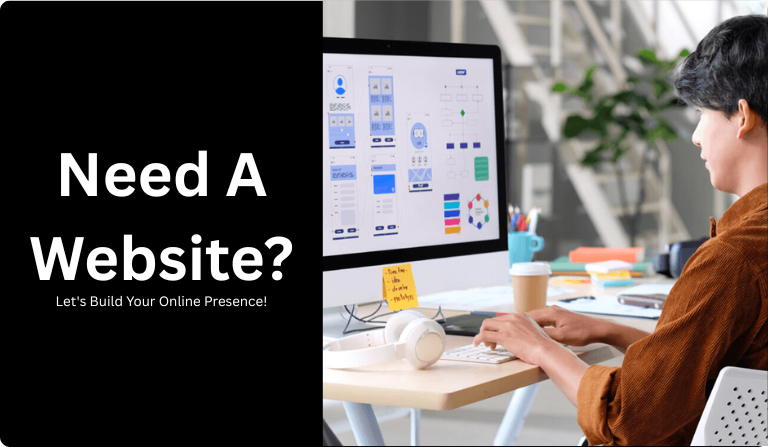
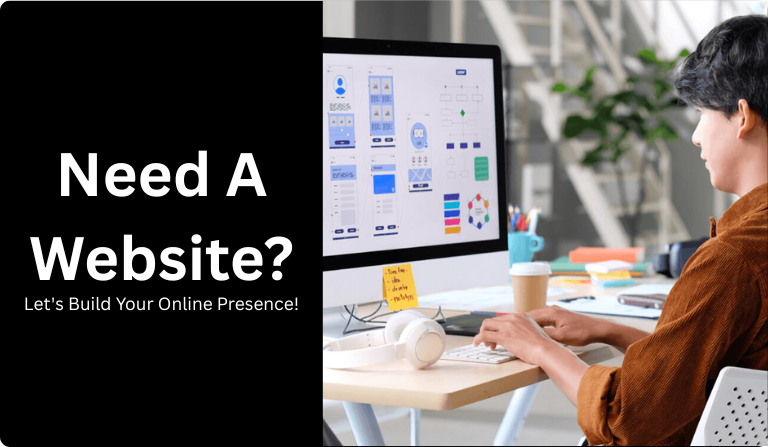
email

Changed region(s): [[0.0312, 0.6689, 0.4062, 0.698]]

diff --git a/excesshtmls/website.html b/excesshtmls/website.html
@@ -1,0 +1,112 @@
+<!DOCTYPE html>
+<html lang="en" style="margin:0; padding:0;">
+<head>
+  <meta charset="UTF-8">
+  <meta name="viewport" content="width=device-width, initial-scale=1.0">
+  <title>BrandPoint Email</title>
+</head>
+
+<body style="margin:0; padding:0; background:#f5f7fa; font-family:Arial, Helvetica, sans-serif;">
+
+<!-- MAIN CONTAINER -->
+<table align="center" width="100%" cellpadding="0" cellspacing="0" style="background:#f5f7fa; padding:30px 0;">
+  <tr>
+    <td>
+
+      <!-- CARD -->
+      <table align="center" width="600" cellpadding="0" cellspacing="0" style="background:#ffffff; border-radius:10px; overflow:hidden; box-shadow:0 4px 18px rgba(0,0,0,0.08);">
+        
+        <!-- HEADER -->
+        <tr>
+          <td align="center" style="padding:35px 20px 10px;">
+            <img src="https://brandpoint.in/assets/img/brand-point-logo-w-title.png" width="180" alt="BrandPoint Logo" style="display:block;">
+          </td>
+        </tr>
+
+        
+        <!-- IMAGE / BANNER -->
+        <tr>
+          <td align="center" style="padding:20px 25px;">
+            <img src="../assets/img/services/web-design-development/need-a-website.png" 
+                 width="100%" 
+                 style="border-radius:8px; max-width:540px; display:block;">
+          </td>
+        </tr>
+        <!-- TITLE -->
+        <tr>
+          <td align="center" style="padding:10px 25px 0;">
+            
+            <h2 style="margin:0; font-size:26px; color:#222;">Affordable Digital Services</h2>
+            <p style="margin:10px 0 0; color:#555; font-size:15px; line-height:1.6;">
+              Professional services at a budget-friendly price.  
+              Get everything your business needs in one place.
+            </p>
+          </td>
+        </tr>
+
+        
+
+        <!-- SERVICES LIST -->
+        <tr>
+          <td style="padding:0 30px;">
+            <table width="100%" cellpadding="0" cellspacing="0">
+              
+              <tr>
+                <td style="padding:10px 0;">
+                  <h3 style="color:#222; margin:0; border-left:4px solid #1a73e8; padding-left:10px; font-size:20px;">
+                    Our Services
+                  </h3>
+                </td>
+              </tr>
+
+              <tr>
+                <td style="padding:10px 0 20px;">
+                  <ul style="margin:0; padding-left:20px; color:#444; line-height:1.8; font-size:15px;">
+                    <li>Website Design & Development</li>
+                    <li>Web Hosting & Maintenance</li>
+                    <li>SSL Certificate Installation</li>
+                  </ul>
+                  <p style="margin-top:15px; color:#111; font-size:17px; font-weight:bold;">
+                    ✔ All services available at a very low price.
+                  </p>
+                </td>
+              </tr>
+
+            </table>
+          </td>
+        </tr>
+
+        <!-- BUTTON -->
+        <tr>
+          <td align="center" style="padding:15px 0 35px;">
+            <a href="https://brandpoint.in" 
+               style="background:#1a73e8; color:#fff; text-decoration:none; padding:12px 30px; font-size:16px; border-radius:6px; display:inline-block;">
+                Get Started Now
+            </a>
+          </td>
+        </tr>
+
+        <!-- FOOTER -->
+        <tr>
+          <td align="center" style="background:#f1f3f5; padding:20px;">
+            <p style="margin:0; font-size:14px; color:#444; line-height:1.6;">
+              <strong>Brand Point</strong><br>
+              Email: <a href="mailto:team@brandpoint.in" style="color:#1a73e8;">team@brandpoint.in</a><br>
+              Email: <a href="mailto:the.brandpoint.team@gmail.com" style="color:#1a73e8;">the.brandpoint.team@gmail.com</a><br>
+              Mobile: <a href="tel:9381655363" style="color:#1a73e8;">9381655363</a>
+            </p>
+            <p style="margin:10px 0 0; font-size:12px; color:#777;">
+              © 2025 Brand Point. All rights reserved.
+            </p>
+          </td>
+        </tr>
+
+      </table>
+      <!-- END CARD -->
+
+    </td>
+  </tr>
+</table>
+
+</body>
+</html>
